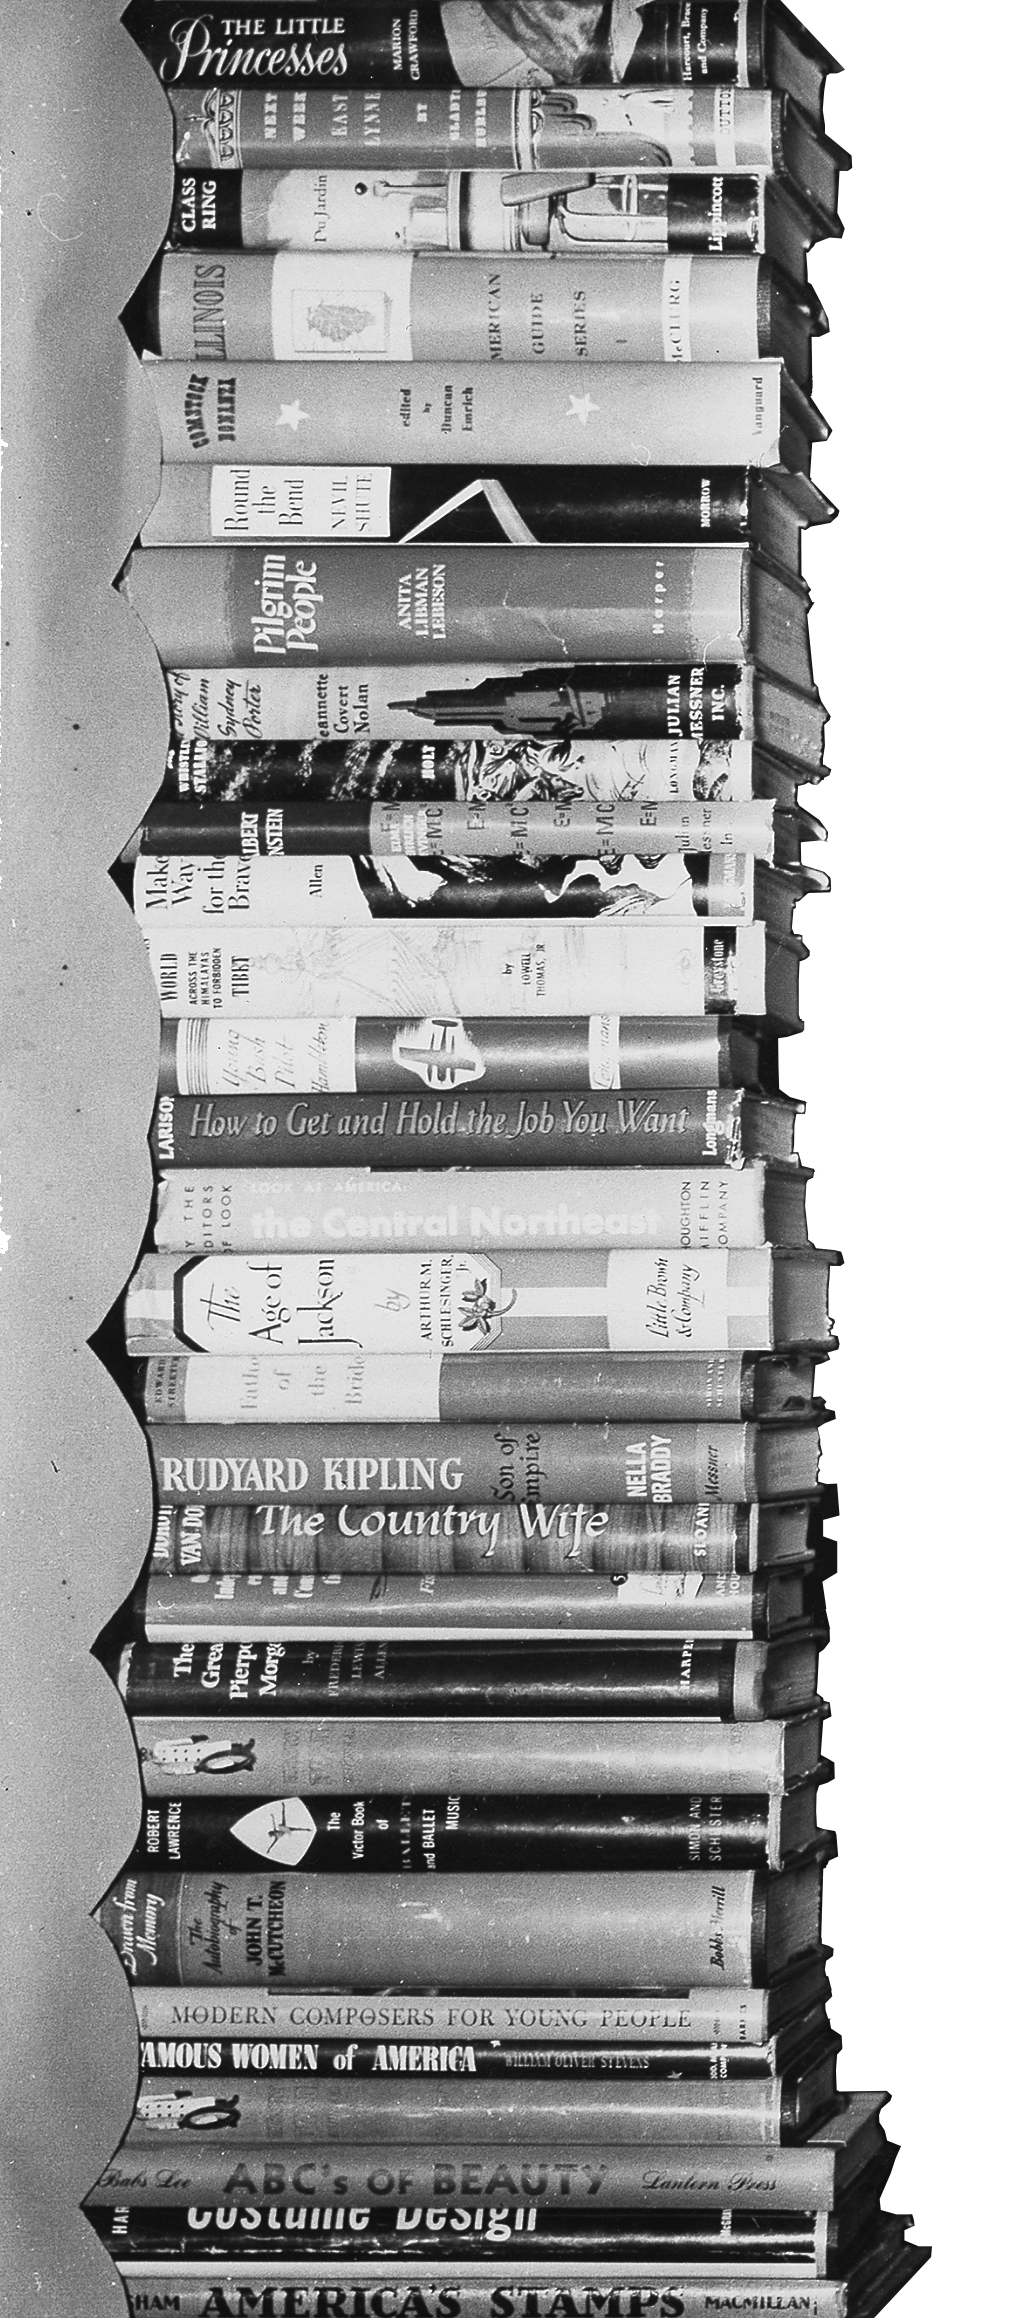
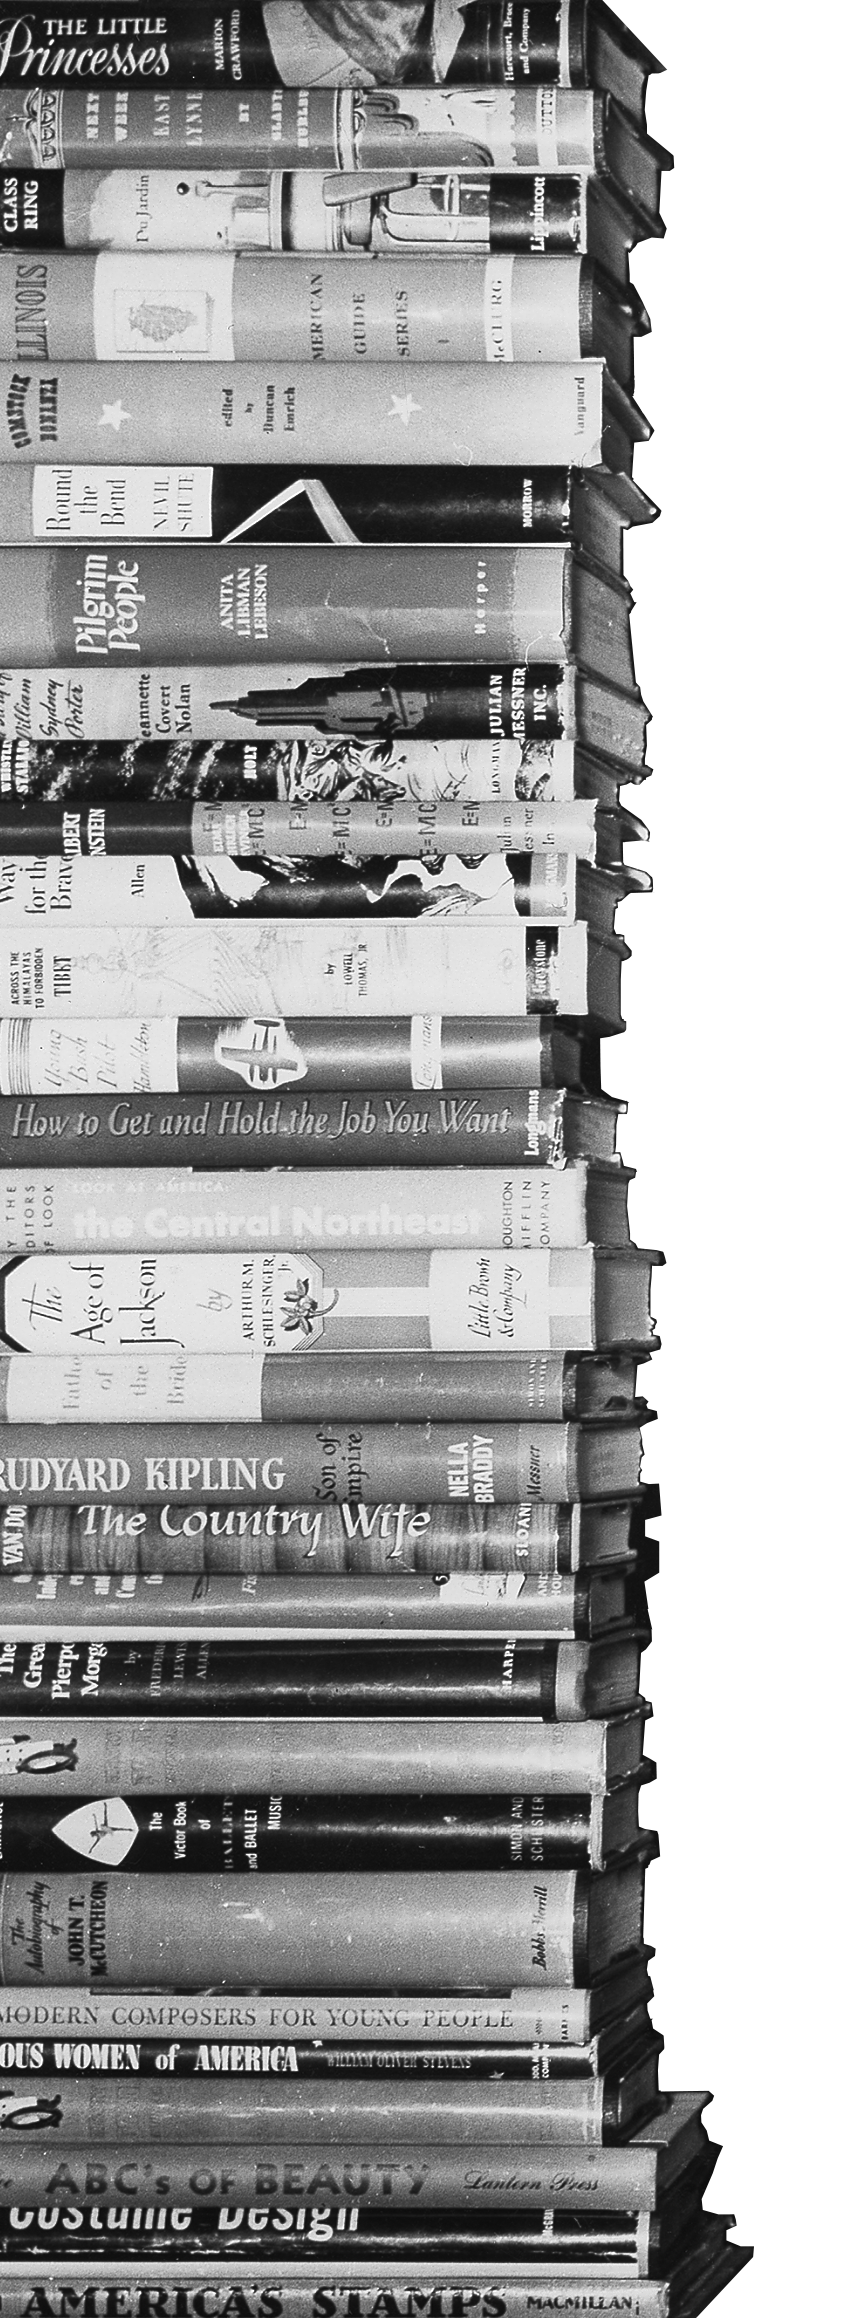
removed scalloped border from bookstack image, adjusted media queries to prevent horizontal scrolling

diff --git a/css/custom.css b/css/custom.css
@@ -280,8 +280,8 @@ footer {
 @media only screen and (min-width: 1045px) and (max-width: 1365px) {
 
      body {
-            background-size: 35% 100%;
-            margin-left: 20em;
+            background-size: 30% 100%;
+            margin-left: 15em;
         }
 
 }
